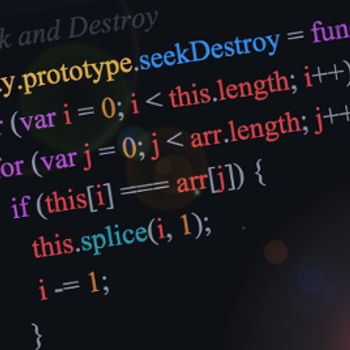
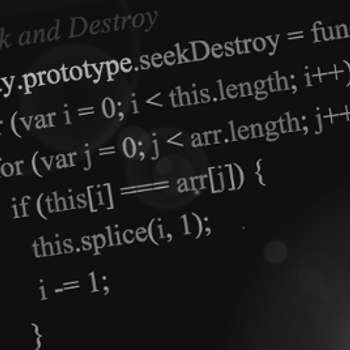
Update of codeThumb.png.  Now greyscale

diff --git a/proprietary/index.html b/proprietary/index.html
@@ -1,204 +1,197 @@
 <!DOCTYPE html>
 <html>
-<!-- Latest compiled and minified CSS and font Awesome -->
-<link rel="stylesheet" href="http://fullerdevelopment.net/css/bootstrap.min.css">
-<link rel="stylesheet" href="http://fullerdevelopment.net/css/font-awesome.min.css">
-<!-- Optional theme -->
-<link rel="stylesheet" href="http://fullerdevelopment.net/css/bootstrap-theme.min.css">
-<!-- Latest compiled and minified JavaScript -->
-<script src="http://fullerdevelopment.net/js/jquery.min.js"></script>
-<script src="http://fullerdevelopment.net/js/bootstrap.min.js"></script>
-<!-- Google Font Obritron and Cabin -->
-<link href="https://fonts.googleapis.com/css?family=Orbitron" rel="stylesheet" type="text/css">
-<link href="https://fonts.googleapis.com/css?family=Cabin:700" rel="stylesheet" type="text/css">
-<!-- Main css -->
-<link href="http://proprietary.fullerdevelopment.net/css/main.css" rel="stylesheet" />
+  <!-- Latest compiled and minified CSS and font Awesome -->
+  <link rel="stylesheet" href="http://fullerdevelopment.net/css/bootstrap.min.css">
+  <link rel="stylesheet" href="http://fullerdevelopment.net/css/font-awesome.min.css">
+  <!-- Optional theme -->
+  <link rel="stylesheet" href="http://fullerdevelopment.net/css/bootstrap-theme.min.css">
+  <!-- Latest compiled and minified JavaScript -->
+  <script src="http://fullerdevelopment.net/js/jquery.min.js"></script>
+  <script src="http://fullerdevelopment.net/js/bootstrap.min.js"></script>
+  <!-- Google Font Obritron and Cabin -->
+  <link href="https://fonts.googleapis.com/css?family=Orbitron" rel="stylesheet" type="text/css">
+  <link href="https://fonts.googleapis.com/css?family=Cabin:700" rel="stylesheet" type="text/css">
+  <!-- Main css -->
+  <link href="http://proprietary.fullerdevelopment.net/css/main.css" rel="stylesheet"/>
 
-<head>
-  <title>Proprietary Projects</title>
+  <head>
+    <title>Proprietary Projects</title>
 
-  <div class="navbar-wrapper">
-    <div class="container">
+    <div class="navbar-wrapper">
+      <div class="container">
 
-      <nav class="navbar navbar-inverse navbar-fixed-top">
-        <div class="container">
-          <div class="navbar-header">
-            <button type="button" class="navbar-toggle collapsed" data-toggle="collapse" data-target="#navbar" aria-expanded="false"
-            aria-controls="navbar">
-              <span class="sr-only">Toggle navigation</span>
-              <span class="icon-bar"></span>
-              <span class="icon-bar"></span>
-              <span class="icon-bar"></span>
-            </button>
-            <a class="navbar-brand" href="#">Tim Fuller</a>
+        <nav class="navbar navbar-inverse navbar-fixed-top">
+          <div class="container">
+            <div class="navbar-header">
+              <button type="button" class="navbar-toggle collapsed" data-toggle="collapse" data-target="#navbar" aria-expanded="false" aria-controls="navbar">
+                <span class="sr-only">Toggle navigation</span>
+                <span class="icon-bar"></span>
+                <span class="icon-bar"></span>
+                <span class="icon-bar"></span>
+              </button>
+              <a class="navbar-brand" href="#">Tim Fuller</a>
+            </div>
+            <div id="navbar" class="navbar-collapse collapse">
+              <ul class="nav navbar-nav navbar-right">
+                <li>
+                  <a href="http://fullerdevelopment.net">Home</a>
+                </li>
+                <li>
+                  <a href="#SAIC">SAIC</a>
+                </li>
+                <li>
+                  <a href="#Raydar">Raydar</a>
+                </li>
+                <li>
+                  <a href="#Contact">Raydar</a>
+                </li>
+              </ul>
+            </div>
           </div>
-          <div id="navbar" class="navbar-collapse collapse">
-            <ul class="nav navbar-nav navbar-right">
-              <li>
-                <a href="http://fullerdevelopment.net">Home</a>
-              </li>
-              <li>
-                <a href="#SAIC">SAIC</a>
-              </li>
-              <li>
-                <a href="#Raydar">Raydar</a>
-              </li>
+        </nav>
 
-            </ul>
-          </div>
-        </div>
-      </nav>
-
+      </div>
     </div>
-  </div>
 
-</head>
+  </head>
 
-<body>
-  <div class="container-fluid">
-    <div id="SAIC" class="section">
-      <h1>SAIC
+  <body>
+    <div class="container-fluid">
+      <div id="SAIC" class="section">
+        <h1>SAIC
         </h1>
-      <h2 class="sub-heading">
+        <h2 class="sub-heading">
           <small>Project Development Database</small>
         </h2>
-      <div class="col-xs-12 col-sm-offset-1 col-sm-5 project-text">
-        <p>
-          Brief description of Project Development Database.
-        </p>
+        <div class="col-xs-12 col-sm-offset-1 col-sm-5 project-text">
+          <p>
+            Brief description of Project Development Database.
+          </p>
+        </div>
       </div>
-    </div>
-    <div id="Raydar" class="section">
-      <h1>Raydar
+      <div id="Raydar" class="section">
+        <h1>Raydar
         </h1>
-      <h2 class="sub-heading">
+        <h2 class="sub-heading">
           <small>Auto Production</small>
         </h2>
-      <div class="col-xs-12 col-sm-offset-1 col-sm-10 project-text">
-        <p>
-          Raydar Auto Production was created to track all mechanical testing data. It was expanded to track each
-          quality inspection point and approvals. It also tracks all electrical tests are complete by
-          tracking the test files created from our Wire Analyzer. The software continues to evolve today
-          and servees as a cornerstone of our cable shop operation.
-        </p>
-      </div>
-      <div class="row">
-        <div class="col-xs-12 col-sm-offset-1 col-sm-10">
-          <div class="thumbnail" id="raydarTorque">
-            <img src="http://proprietary.fullerdevelopment.net/images/raydarTorque.jpeg" class="img-rounded img-responsive"
-            alt="Auto Production Torque Settings with Drawing view">
-            <div class="caption">
-              <h3>Backshell Toque</h3>
-              <p class="p-center">
-                Backshell assemblies are torqued by technicians to settings gathered from MySQL backend. Current torque
-                value are gathered through connected Torque Transducer connected via RS232.
-              </p>
+        <div class="col-xs-12 col-sm-offset-1 col-sm-10 project-text">
+          <p>
+            Raydar Auto Production was created to track all mechanical testing data. It was expanded to track each quality inspection point and approvals. It also tracks all electrical tests are complete by tracking the test files created from our Wire Analyzer. The software continues to evolve today and servees as a cornerstone of our cable shop operation.
+          </p>
+        </div>
+        <div class="row">
+          <div class="col-xs-12 col-sm-offset-1 col-sm-10">
+            <div class="thumbnail" id="raydarTorque">
+              <img src="http://proprietary.fullerdevelopment.net/images/raydarTorque.jpeg" class="img-rounded img-responsive" alt="Auto Production Torque Settings with Drawing view">
+              <div class="caption">
+                <h3>Backshell Toque</h3>
+                <p class="p-center">
+                  Backshell assemblies are torqued by technicians to settings gathered from MySQL backend. Current torque value are gathered through connected Torque Transducer connected via RS232.
+                </p>
+              </div>
+            </div>
+          </div>
+        </div>
+        <div class="row">
+          <div class="col-xs-12 col-sm-offset-2 col-sm-4">
+            <div class="thumbnail" id="raydarSettings">
+              <img src="http://proprietary.fullerdevelopment.net/images/raydarSettings.jpeg" class="img-rounded img-responsive" alt="Auto Production settings view" width="350" height="350">
+              <div class="caption">
+                <h3>Connection Settings</h3>
+                <p class="p-center">
+                  View where serial and database settings are modified and saved.
+                </p>
+              </div>
+            </div>
+          </div>
+          <div class="col-xs-12 col-sm-4">
+            <div class="thumbnail" id="raydarLogin">
+              <img src="http://proprietary.fullerdevelopment.net/images/raydarLogin.jpeg" class="img-rounded img-responsive" alt="Auto Production login view" width="350" height="350">
+              <div class="caption">
+                <h3>Employee Login</h3>
+                <p class="p-center">
+                  Each user has a login and unique pin verified through the database for login.
+                </p>
+              </div>
+            </div>
+          </div>
+        </div>
+        <div class="row">
+          <div class="col-xs-12 col-sm-offset-2 col-sm-4">
+            <div class="thumbnail" id="raydarDashboard">
+              <img src="http://proprietary.fullerdevelopment.net/images/raydarDashboard.jpeg" class="img-rounded img-responsive" alt="Auto Production dashboard view" width="350" height="350">
+              <div class="caption">
+                <h3>Employee Dashboard</h3>
+                <p class="p-center">
+                  Map to each area of the software, each use can choose any of these forms as a starting point as well, which is saved to the database and retrieved at login.
+                </p>
+              </div>
+            </div>
+          </div>
+          <div class="col-xs-12 col-sm-4">
+            <div class="thumbnail" id="raydarQaChecks">
+              <img src="http://proprietary.fullerdevelopment.net/images/raydarQaChecks.jpeg" class="img-rounded img-responsive" alt="Auto Production QA administration" width="350" height="350">
+              <div class="caption">
+                <h3>QA Admin</h3>
+                <p class="p-center">
+                  Determine and database each assessed quality check on every assembly.
+                </p>
+              </div>
+            </div>
+          </div>
+        </div>
+        <div class="row">
+          <div class="col-xs-12 col-sm-offset-1 col-sm-10">
+            <div class="thumbnail" id="raydarQa">
+              <img src="http://proprietary.fullerdevelopment.net/images/raydarQa.jpeg" class="img-rounded img-responsive" alt="Quality assuarance view">
+              <div class="caption">
+                <h3>Quality Assurance</h3>
+                <p class="p-center">
+                  Quality assuarance has a snap shot of all test data of an assembly, the needed quality checks, and saves checked off data back to the database
+                </p>
+              </div>
             </div>
           </div>
         </div>
       </div>
-      <div class="row">
-        <div class="col-xs-12 col-sm-offset-2 col-sm-4">
-          <div class="thumbnail" id="raydarSettings">
-            <img src="http://proprietary.fullerdevelopment.net/images/raydarSettings.jpeg" class="img-rounded img-responsive"
-            alt="Auto Production settings view" width="350" height="350">
-            <div class="caption">
-              <h3>Connection Settings</h3>
-              <p class="p-center">
-                View where serial and database settings are modified and saved.
-              </p>
-            </div>
-          </div>
-        </div>
-        <div class="col-xs-12 col-sm-4">
-          <div class="thumbnail" id="raydarLogin">
-            <img src="http://proprietary.fullerdevelopment.net/images/raydarLogin.jpeg" class="img-rounded img-responsive"
-            alt="Auto Production login view" width="350" height="350">
-            <div class="caption">
-              <h3>Employee Login</h3>
-              <p class="p-center">
-                Each user has a login and unique pin verified through the database for login.
-              </p>
-            </div>
-          </div>
-        </div>
-      </div>
-      <div class="row">
-        <div class="col-xs-12 col-sm-offset-2 col-sm-4">
-          <div class="thumbnail" id="raydarDashboard">
-            <img src="http://proprietary.fullerdevelopment.net/images/raydarDashboard.jpeg" class="img-rounded img-responsive"
-            alt="Auto Production dashboard view" width="350" height="350">
-            <div class="caption">
-              <h3>Employee Dashboard</h3>
-              <p class="p-center">
-                Map to each area of the software, each use can choose any of these forms as a starting point as well,
-                which is saved to the database and retrieved at login.
-              </p>
-            </div>
-          </div>
-        </div>
-        <div class="col-xs-12 col-sm-4">
-          <div class="thumbnail" id="raydarQaChecks">
-            <img src="http://proprietary.fullerdevelopment.net/images/raydarQaChecks.jpeg" class="img-rounded img-responsive"
-            alt="Auto Production QA administration" width="350" height="350">
-            <div class="caption">
-              <h3>QA Admin</h3>
-              <p class="p-center">
-                Determine and database each assessed quality check on every assembly.
-              </p>
-            </div>
-          </div>
-        </div>
-      </div>
-      <div class="row">
-      <div class="col-xs-12 col-sm-offset-1 col-sm-10">
-        <div class="thumbnail" id="raydarQa">
-          <img src="http://proprietary.fullerdevelopment.net/images/raydarQa.jpeg" class="img-rounded img-responsive"
-          alt="Quality assuarance view">
-          <div class="caption">
-            <h3>Quality Assurance</h3>
-            <p class="p-center">
-              Quality assuarance has a snap shot of all test data of an assembly, the needed quality checks, and saves
-              checked off data back to the database
-            </p>
+      <div class="section" id="Contact">
+        <div class="row">
+          <div class="col-xs-12 col-sm-4 section-top-left">
+            <a href="https://github.com/fuller82">
+              <button class="btn btn-xlarge btn-block btn-default">
+                <i class="fa fa-github-square"></i>
+                Github
+              </button>
+            </a>
+            <a href="https://www.linkedin.com/in/tim-fuller-09286773">
+              <button class="btn btn-xlarge btn-block btn-default button-contact">
+                <i class="fa fa-linkedin-square"></i>
+                LinkedIn
+              </button>
+            </a>
+            <a href="http://freecodecamp.com/fuller82">
+              <button class="btn btn-xlarge btn-block btn-default button-contact">
+                <i class="fa fa-fire"></i>
+                Free Code Camp</button>
+            </a>
+            <a href="mailto:tim@fullerdevelopment.com">
+              <button class="btn btn-xlarge btn-block btn-default button-contact">
+                <i class="fa fa-envelope"></i>
+                Email</button>
+            </a>
           </div>
         </div>
       </div>
     </div>
-    </div>
-    <div class="section" id="Contact">
-      <div class="row">
-        <div class="col-xs-12 col-sm-4 section-top-left">
-          <a href="https://github.com/fuller82">
-            <button class="btn btn-xlarge btn-block btn-default">
-              <i class="fa fa-github-square"></i> Github
-            </button>
-          </a>
-          <a href="https://www.linkedin.com/in/tim-fuller-09286773">
-            <button class="btn btn-xlarge btn-block btn-default button-contact">
-              <i class="fa fa-linkedin-square"></i> LinkedIn
-            </button>
-          </a>
-          <a href="http://freecodecamp.com/fuller82">
-            <button class="btn btn-xlarge btn-block btn-default button-contact">
-              <i class="fa fa-fire"></i> Free Code Camp</button>
-          </a>
-          <a href="mailto:tim@fullerdevelopment.com">
-            <button class="btn btn-xlarge btn-block btn-default button-contact">
-              <i class="fa fa-envelope"></i> Email</button>
-          </a>
-        </div>
-      </div>
-    </div>
-  </div>
-</body>
+  </body>
 
-<div class="container">
-  <footer class="footer">
-    <div class="container">
-      <p class="text-muted">Design by Fuller Development</p>
-    </div>
-  </footer>
-</div>
+  <div class="container">
+    <footer class="footer">
+      <div class="container">
+        <p class="text-muted">Design by Fuller Development</p>
+      </div>
+    </footer>
+  </div>
 
 </html>
